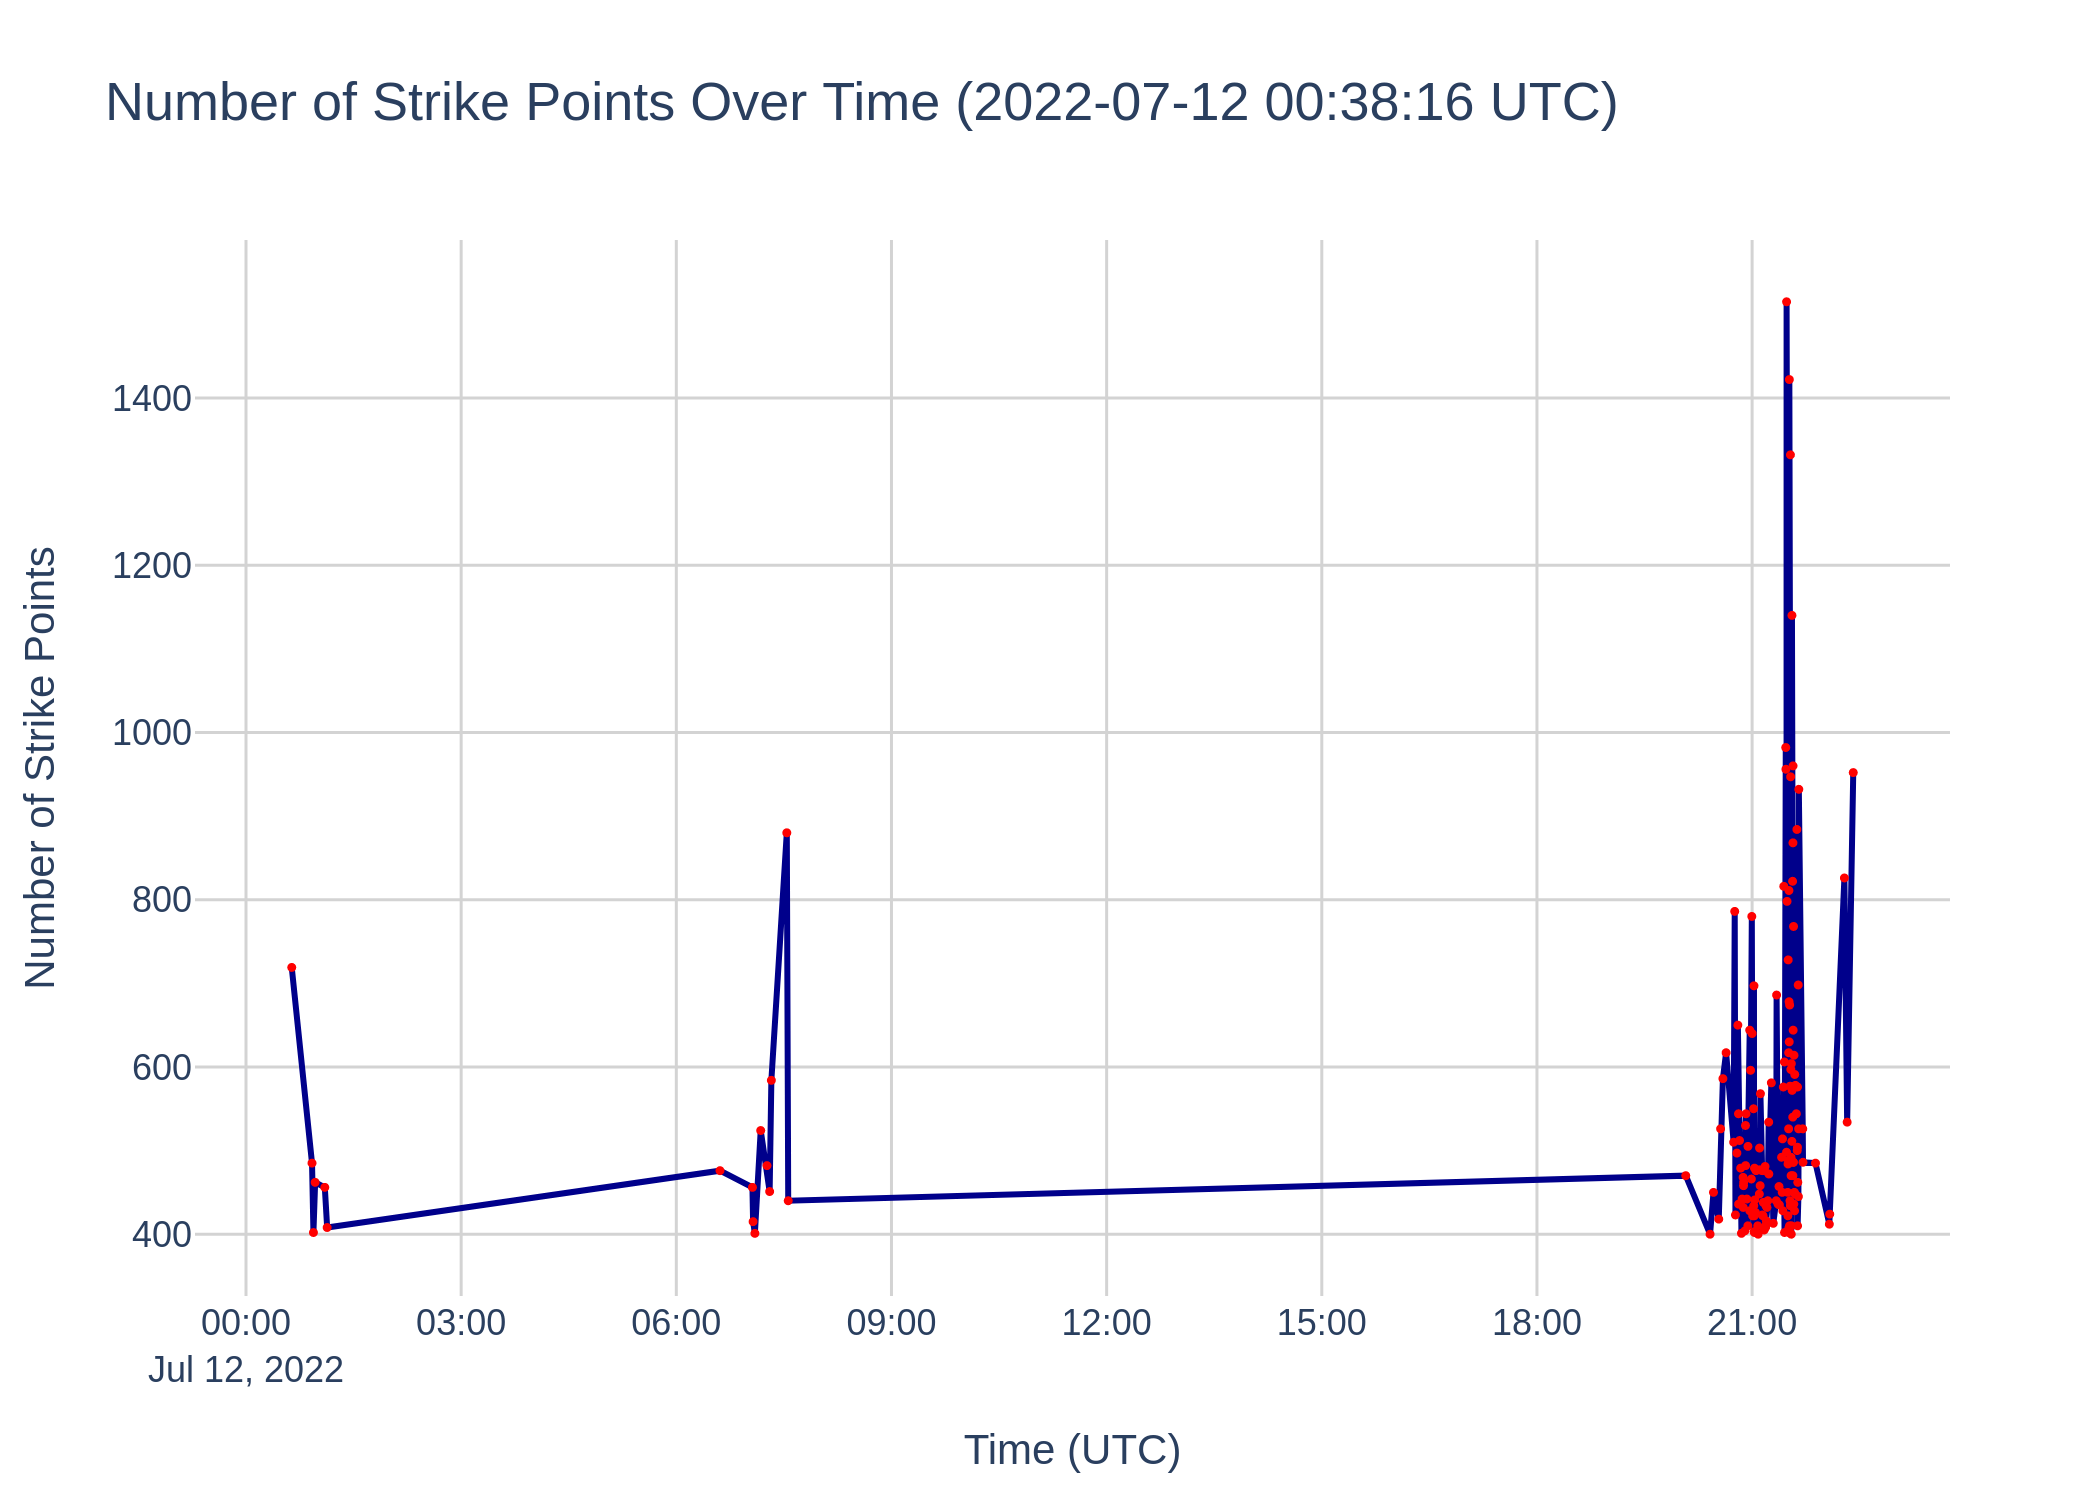
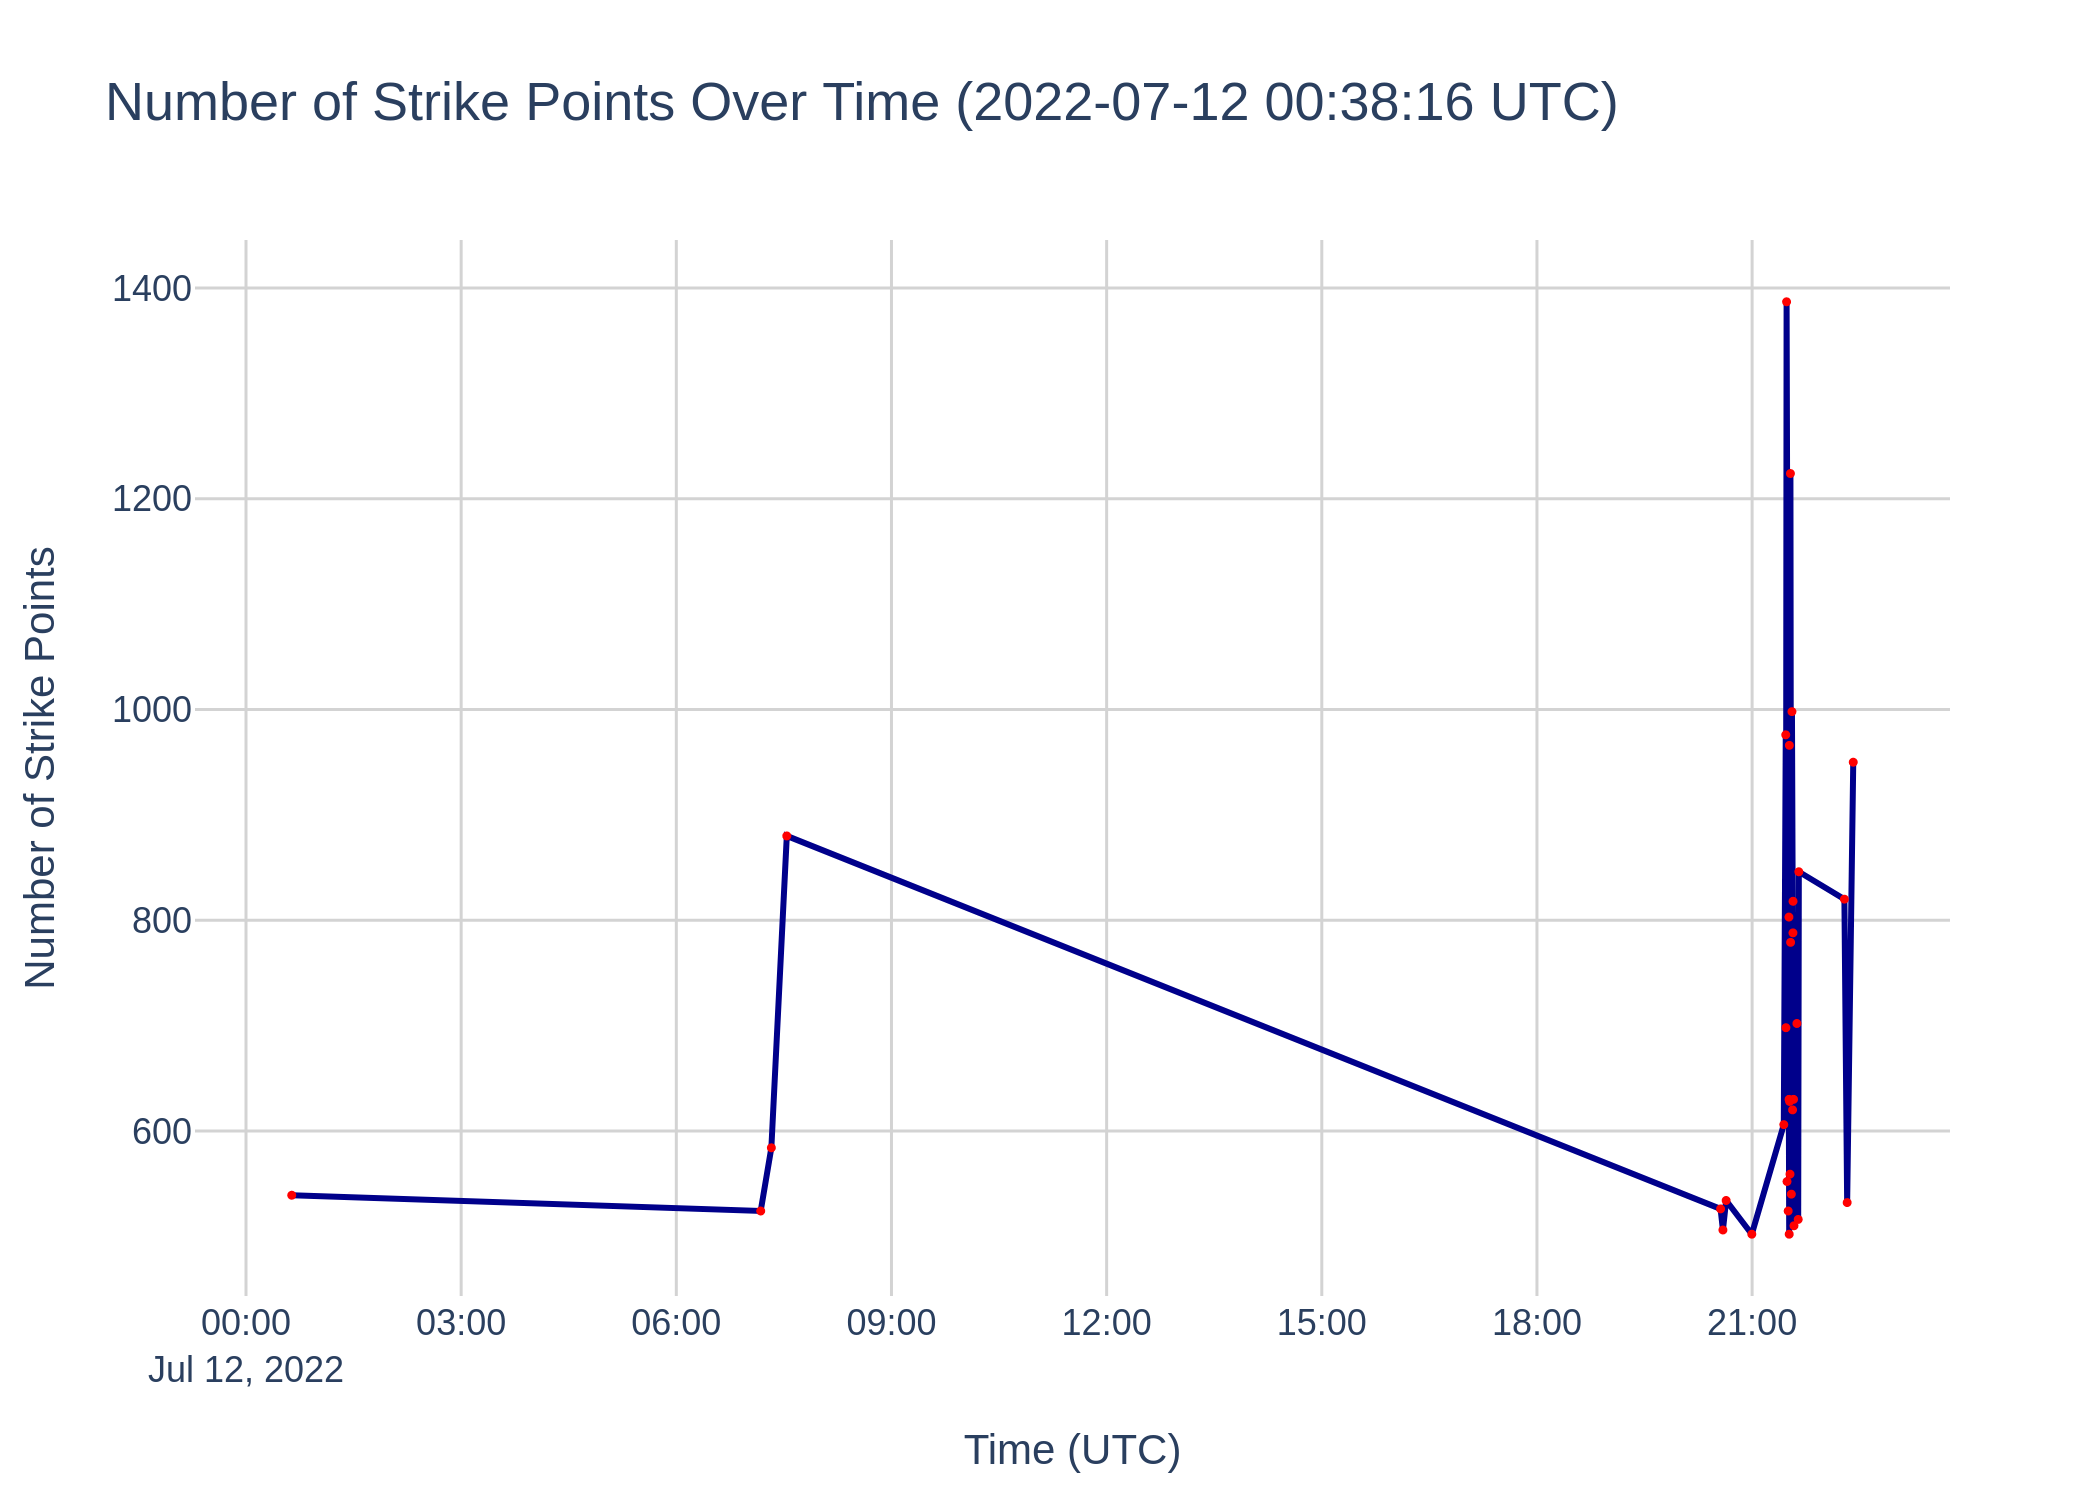
Troubleshooting and error fixing

diff --git a/lightning_stitcher.py b/lightning_stitcher.py
@@ -81,8 +81,8 @@ def stitch_lightning_strike(strike_indeces: list[int], events: pd.DataFrame, **p
             max_time_threshold_squared = max_time_threshold ** 2
 
             # Apply filtering mask using squared comparisons.
-            # (dt_squared <= max_time_threshold_squared) & \
-            mask = (dt_squared <= max_time_threshold_squared) & (distances_squared <= max_dist_squared) & (speeds_squared <= max_speed_squared) & (speeds_squared >= min_speed_squared)
+            # (dt_squared <= max_time_threshold_squared) & 
+            mask = (distances_squared <= max_dist_squared) & (speeds_squared <= max_speed_squared) & (speeds_squared >= min_speed_squared)
 
             # mask = (dt <= max_time_threshold) & (distances <= max_dist_between_pts) & (speeds <= max_speed) & (speeds >= min_speed)
 

diff --git a/lightning_plotters.py b/lightning_plotters.py
@@ -111,7 +111,7 @@ def plot_avg_power_map(
     """
 
     if len(strike_indices) > 0:
-        return None
+        return None, None
 
     strike_events = events.iloc[strike_indices]
 
@@ -261,6 +261,9 @@ def generate_strike_gif(
             _range=_range,
             transparency_threshold=transparency_threshold
         )
+    
+    if max_stat == None: # If no data is returned
+        return
 
     frames = []
     # Generate frames based on time intervals.

diff --git a/main.py b/main.py
@@ -1,7 +1,6 @@
 # Run in background: python main.py > output.log 2>&1 & disown
 # List all files in directory './' and sizes: du -h --max-depth=1 ./ | sort -hr
 
-
 import os
 import database_parser
 import lightning_bucketer
